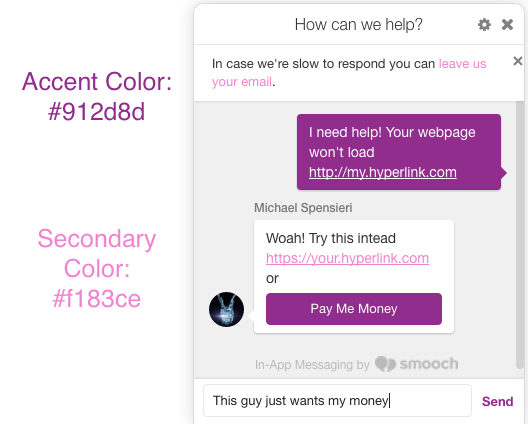
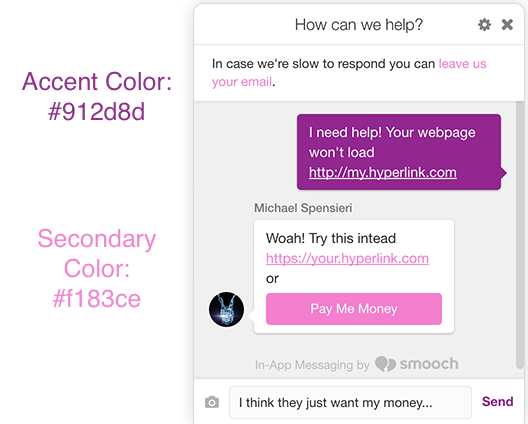
Action buttons use secondary color on web

diff --git a/source/includes/customization/_styling_conversations_js.md b/source/includes/customization/_styling_conversations_js.md
@@ -4,8 +4,8 @@
 
 For basic customization of colors, you can set an Accent Color and a Secondary Color in the web settings of the Smooch dashboard.
 
-* The **Accent Color** customizes the color of user message bubbles, action buttons, and the Send button.
-* The **Secondary Color** changes the appearance of hyperlinks in the web widget.
+* The **Accent Color** customizes the color of customer messages and actions in the footer.
+* The **Secondary Color** changes the appearance of links and buttons in your messages.
 
 <img alt="Color Customization" src="../images/color_customization_web.png" />
 
